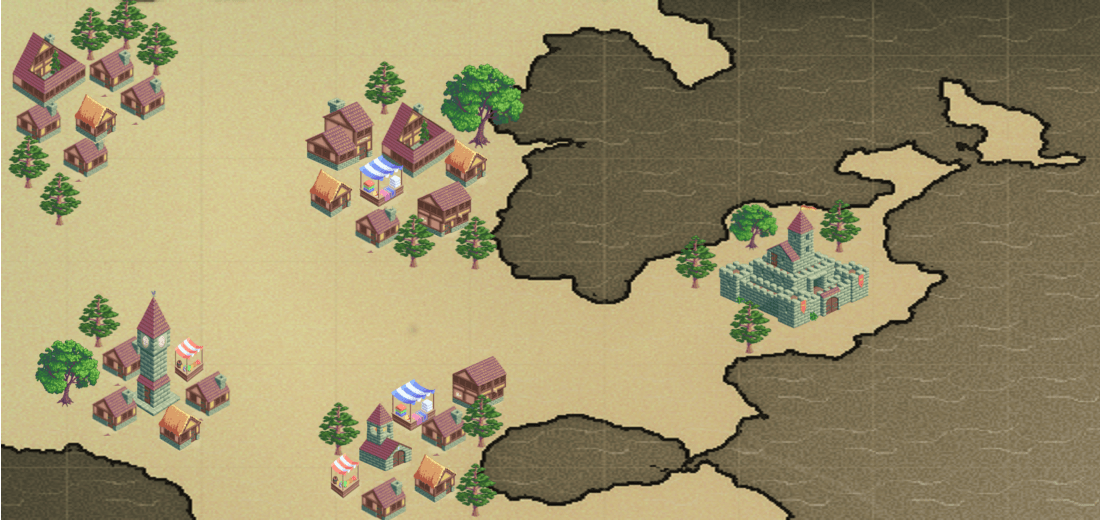
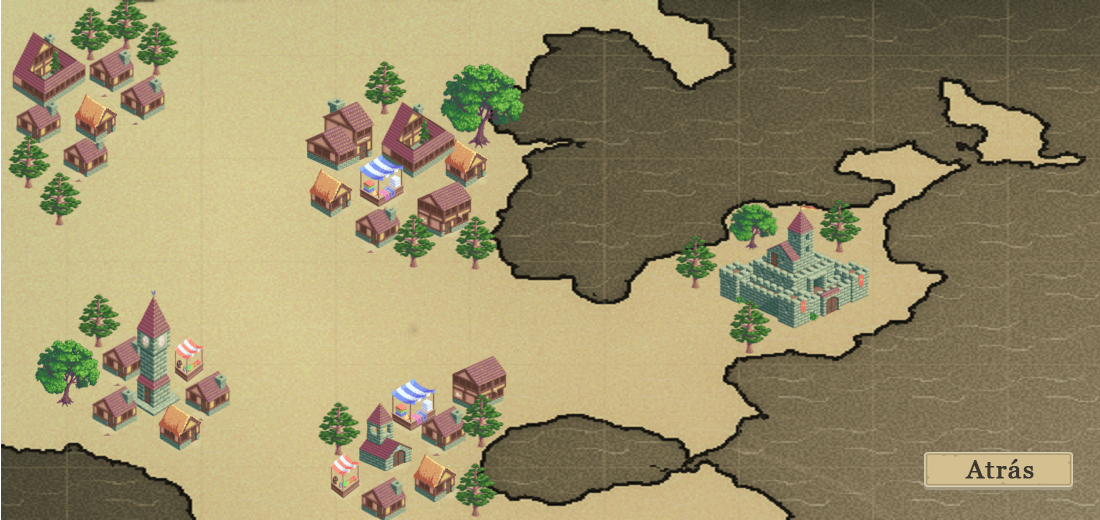
Boton atras del nivel

Changed region(s): [[0.8345, 0.8615, 0.9891, 0.9538]]

diff --git a/estatico/js/juego.js b/estatico/js/juego.js
@@ -242,6 +242,12 @@ function clicPrincipal(){
 					}
 				}
 			}
+			if(x>=926 && x<=1072){
+				if(y>=457 && y<=489){
+						dibujar();
+						pantalla = "inicio";
+				}
+			}
 		}else if(pantalla=="nivel1subnivel1"){	
 			if(x>=28 && x<= 218){
 				if(y>=431 && y<=486){
@@ -268,7 +274,7 @@ function clicPrincipal(){
 				}
 			}
 
-		}else if(pantalla=="nivel1subnivel1juego"){			
+		}else if(pantalla=="nivel1subnivel1juego" && !banderaCola){			
 			if(x>=28 && x<= 218){
 				if(y>=431 && y<=486){
 					validarCodigo();
@@ -442,7 +448,7 @@ function dibujarJuegoNivel1Subnivel1 () {
 	tablero.fillStyle = '#000';
 	tablero.drawImage(castillos.imagenAlan,(alanImagenX)*alanAncho,(alanImagenY)*alanAlto,alanAncho,alanAlto,alanTableroX,alanTableroY,alanAncho, alanAlto);
 	tablero.fillText("Enviar",90,460);
-	tablero.fillText("Atras",300,460);
+	tablero.fillText("Atrás",300,460);
 	var toolbox = '<xml>';
 	toolbox += '  <block type="avanzar"></block>';
 	toolbox += '  <block type="girar"></block>';
@@ -470,7 +476,7 @@ function pintarTablero1(){
 	tablero.fillText("Sigue el camino en linea recta",50,230);
 	tablero.fillText("para entrar al pueblo.",50,260);
 	tablero.fillText("Jugar",90,460);
-	tablero.fillText("Atras",300,460);
+	tablero.fillText("Atrás",300,460);
 }
 
 
@@ -526,7 +532,7 @@ function dibujarJuegoNivel1Subnivel2() {
 	tablero.drawImage(castillos.imagenAlan,(alanImagenX)*alanAncho,(alanImagenY)*alanAlto,alanAncho,alanAlto,alanTableroX,alanTableroY,alanAncho, alanAlto);
 	tablero.fillStyle = '#000';
 	tablero.fillText("Reiniciar",90,460);
-	tablero.fillText("Atras",300,460);
+	tablero.fillText("Atrás",300,460);
 	var toolbox = '<xml>';
 	toolbox += '  <block type="avanzar"></block>';
 	toolbox += '  <block type="girar"></block>';
@@ -549,7 +555,7 @@ function pintarTablero2(){
 	tablero.fillText("Sigue el camino para llegar ",50,230);
 	tablero.fillText("a la entrada.",50,260);
 	tablero.fillText("Jugar",90,460);
-	tablero.fillText("Atras",300,460);
+	tablero.fillText("Atrás",300,460);
 }
 
 
@@ -567,7 +573,7 @@ function avanzarIntervalo () {
 			tablero.drawImage(control.imagenInicial,0,0);
 			tablero.fillStyle = '#999999';
 			tablero.fillText("Enviar",90,460);
-			tablero.fillText("Atras",300,460);
+			tablero.fillText("Atrás",300,460);
 			if(alanImagenY==3){
 				if(intervalo==0 && actualx+1<espacioNivel1[actualy].length && espacioNivel1[actualy][actualx+1]){
 					actualx++;
@@ -636,7 +642,7 @@ function avanzarIntervaloSubnivel2() {
 			tablero.drawImage(control.imagenInicial,0,0);
 			tablero.fillStyle = '#999999';
 			tablero.fillText("Enviar",90,460);
-			tablero.fillText("Atras",300,460);
+			tablero.fillText("Atrás",300,460);
 			if(alanImagenY==3){
 				alanTableroX+=50;
 				alanImagenX = (alanImagenX+1)%4;
@@ -729,7 +735,7 @@ function girarIntervalo (direccion) {
 			}
 			tablero.drawImage(control.imagenInicial,0,0);
 			tablero.fillText("Enviar",90,460);
-			tablero.fillText("Atras",300,460);
+			tablero.fillText("Atrás",300,460);
 			tablero.drawImage(castillos.imagenAlan,(alanImagenX)*alanAncho,(alanImagenY)*alanAlto,alanAncho,alanAlto,alanTableroX,alanTableroY,alanAncho, alanAlto);
 			intervalo++;
 			girarIntervalo(direccion);
